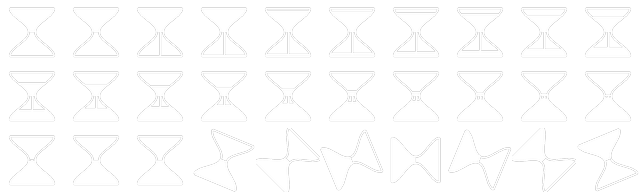
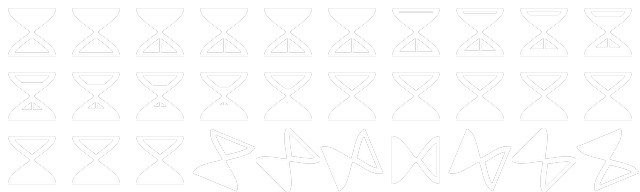
feat(assets): refine hourglass sprite
- Bump outline thickness 2 → 4 px (visible after the 4× supersample/LANCZOS downscale).

- Curvier silhouette via cosine raised to 0.55: rounder bulbs, sharper neck. Bulb half-width 22 → 24, neck 3 → 2.

- Replace per-stroke line drawing with a polygon-erosion ring (outer_mask − eroded inner_mask). The cap and silhouette now share one closed boundary so the corners are antialiased instead of jagged square joins.

- Sand fills are masked to the inner cavity so they can't bleed into the outline.

Regenerated assets/graphics/submit/Hourglass_10x3.png from the updated script.

diff --git a/scripts/gen_hourglass_sprite.py b/scripts/gen_hourglass_sprite.py
@@ -10,7 +10,7 @@ from __future__ import annotations
 import math
 from pathlib import Path
 
-from PIL import Image, ImageDraw
+from PIL import Image, ImageChops, ImageDraw, ImageFilter
 
 W = H = 64                     # frame size; tweak to match LoadingSpinner cell
 COLS, ROWS, N = 10, 3, 30
@@ -18,25 +18,32 @@ DRAIN_END = 22                 # last drain frame; remaining frames are the flip
 SUPERSAMPLE = 4                # render at NxSUPERSAMPLE then downscale for AA
 GLASS_COLOR = (255, 255, 255, 255)
 SAND_COLOR  = (255, 255, 255, 255)
-OUTLINE_THICK = 2
+OUTLINE_THICK = 4
 CURVE_SAMPLES = 96             # silhouette resolution per side
+CURVE_POWER = 0.55             # < 1 rounds the bulbs and sharpens the neck
 
 CX = W // 2
 TOP_Y = 8
 BOT_Y = H - 8
 MID_Y = H // 2
-HALF_W = 22                    # bulb half-width
-NECK_W = 3                     # narrow waist half-width
+HALF_W = 24                    # bulb half-width
+NECK_W = 2                     # narrow waist half-width
 
-# Cosine silhouette: x(y) = a + b * cos(2 * pi * y_norm)
-# y_norm = 0 -> top (wide); 0.5 -> waist; 1 -> bottom (wide).
-_PROFILE_A = (HALF_W + NECK_W) / 2
-_PROFILE_B = (HALF_W - NECK_W) / 2
+
+def _bulb_shape(y_norm: float) -> float:
+    """Cosine raised to a fractional power: rounder bulbs, sharper neck.
+
+    `y_norm` is in [0, 1] with 0 at the top, 0.5 at the neck, 1 at the bottom.
+    Returns a value in [0, 1] where 0 is fully pinched (neck) and 1 is the
+    full bulb half-width.
+    """
+    s = (1.0 + math.cos(2.0 * math.pi * y_norm)) * 0.5  # 1 at top/bot, 0 at neck
+    return s ** CURVE_POWER
 
 
 def profile_half_width(y: float) -> float:
     y_norm = (y - TOP_Y) / (BOT_Y - TOP_Y)
-    return _PROFILE_A + _PROFILE_B * math.cos(2 * math.pi * y_norm)
+    return NECK_W + (HALF_W - NECK_W) * _bulb_shape(y_norm)
 
 
 def right_curve(y_start: float, y_end: float, samples: int = CURVE_SAMPLES) -> list[tuple[float, float]]:
@@ -57,6 +64,16 @@ def stroke_polyline(d: ImageDraw.ImageDraw, pts: list[tuple[float, float]]) -> N
         d.line([a, b], fill=GLASS_COLOR, width=OUTLINE_THICK)
 
 
+def _erode_mask(mask: Image.Image, pixels: int) -> Image.Image:
+    """Iteratively erode `mask` by `pixels` (PIL's MinFilter caps at size 9 → 4 px)."""
+    remaining = pixels
+    while remaining > 0:
+        step = min(4, remaining)
+        mask = mask.filter(ImageFilter.MinFilter(step * 2 + 1))
+        remaining -= step
+    return mask
+
+
 def draw_hourglass(sand_top: float, sand_bot: float, rotation_deg: float) -> Image.Image:
     s = SUPERSAMPLE
     big_w, big_h = W * s, H * s
@@ -64,12 +81,10 @@ def draw_hourglass(sand_top: float, sand_bot: float, rotation_deg: float) -> Ima
     big_top, big_bot, big_mid = TOP_Y * s, BOT_Y * s, MID_Y * s
     big_half_w, big_neck = HALF_W * s, NECK_W * s
     big_thick = OUTLINE_THICK * s
-    big_a = (big_half_w + big_neck) / 2
-    big_b = (big_half_w - big_neck) / 2
 
     def hw(y: float) -> float:
         y_norm = (y - big_top) / (big_bot - big_top)
-        return big_a + big_b * math.cos(2 * math.pi * y_norm)
+        return big_neck + (big_half_w - big_neck) * _bulb_shape(y_norm)
 
     def rcurve(y0: float, y1: float, n: int = CURVE_SAMPLES) -> list[tuple[float, float]]:
         return [
@@ -80,39 +95,57 @@ def draw_hourglass(sand_top: float, sand_bot: float, rotation_deg: float) -> Ima
     def mir(pts: list[tuple[float, float]]) -> list[tuple[float, float]]:
         return [(2 * big_cx - x, y) for x, y in reversed(pts)]
 
-    def stroke(d: ImageDraw.ImageDraw, pts: list[tuple[float, float]]) -> None:
-        for a, b in zip(pts, pts[1:]):
-            d.line([a, b], fill=GLASS_COLOR, width=big_thick)
+    # ---- Outline as a single closed silhouette -> erosion ring ----
+    # Build the full outer boundary as one closed polygon. PIL renders polygon
+    # fills with antialiasing once we downscale, and computing the ring as
+    # (outer_mask - eroded_inner_mask) avoids the jagged corners that came from
+    # drawing the cap line and silhouette as separate strokes.
+    silhouette_right = rcurve(big_top, big_bot)
+    silhouette_pts = silhouette_right + mir(silhouette_right)
 
-    buf = Image.new("RGBA", (big_w, big_h), (0, 0, 0, 0))
-    d = ImageDraw.Draw(buf)
+    outer_mask = Image.new("L", (big_w, big_h), 0)
+    ImageDraw.Draw(outer_mask).polygon(silhouette_pts, fill=255)
+    inner_mask = _erode_mask(outer_mask, big_thick)
+    ring_alpha = ImageChops.subtract(outer_mask, inner_mask)
+    ring_buf = Image.new("RGBA", (big_w, big_h), GLASS_COLOR)
+    ring_buf.putalpha(ring_alpha)
+
+    # ---- Sand fills, masked to stay inside the inner cavity ----
+    sand_buf = Image.new("RGBA", (big_w, big_h), (0, 0, 0, 0))
+    sand_d = ImageDraw.Draw(sand_buf)
 
     surface_y_b: float | None = None
 
     if sand_top > 0.01:
         surface_y = big_top + (1 - sand_top) * (big_mid - big_top)
         right = rcurve(surface_y, big_mid)
-        d.polygon(right + mir(right), fill=SAND_COLOR)
+        sand_d.polygon(right + mir(right), fill=SAND_COLOR)
 
     if sand_bot > 0.01:
         surface_y_b = big_bot - sand_bot * (big_bot - big_mid)
         right = rcurve(surface_y_b, big_bot)
-        d.polygon(right + mir(right), fill=SAND_COLOR)
+        sand_d.polygon(right + mir(right), fill=SAND_COLOR)
 
     if 0.02 < sand_top < 0.99:
         stream_bot = surface_y_b - 1 if surface_y_b is not None else big_bot - 4 * s
-        d.line([(big_cx, big_mid), (big_cx, stream_bot)], fill=SAND_COLOR, width=2 * s)
+        sand_d.line(
+            [(big_cx, big_mid), (big_cx, int(stream_bot))],
+            fill=SAND_COLOR,
+            width=2 * s,
+        )
 
-    silhouette = rcurve(big_top, big_bot)
-    stroke(d, silhouette)
-    stroke(d, mir(silhouette))
-    d.line([(big_cx - big_half_w, big_top), (big_cx + big_half_w, big_top)], fill=GLASS_COLOR, width=big_thick)
-    d.line([(big_cx - big_half_w, big_bot), (big_cx + big_half_w, big_bot)], fill=GLASS_COLOR, width=big_thick)
+    sr, sg, sb, sa = sand_buf.split()
+    sa = ImageChops.multiply(sa, inner_mask)
+    sand_buf = Image.merge("RGBA", (sr, sg, sb, sa))
+
+    composed = Image.alpha_composite(sand_buf, ring_buf)
 
     if rotation_deg != 0:
-        buf = buf.rotate(-rotation_deg, resample=Image.BICUBIC, center=(big_cx, big_h // 2))
+        composed = composed.rotate(
+            -rotation_deg, resample=Image.BICUBIC, center=(big_cx, big_h // 2)
+        )
 
-    return buf.resize((W, H), resample=Image.LANCZOS)
+    return composed.resize((W, H), resample=Image.LANCZOS)
 
 
 def main() -> None:
